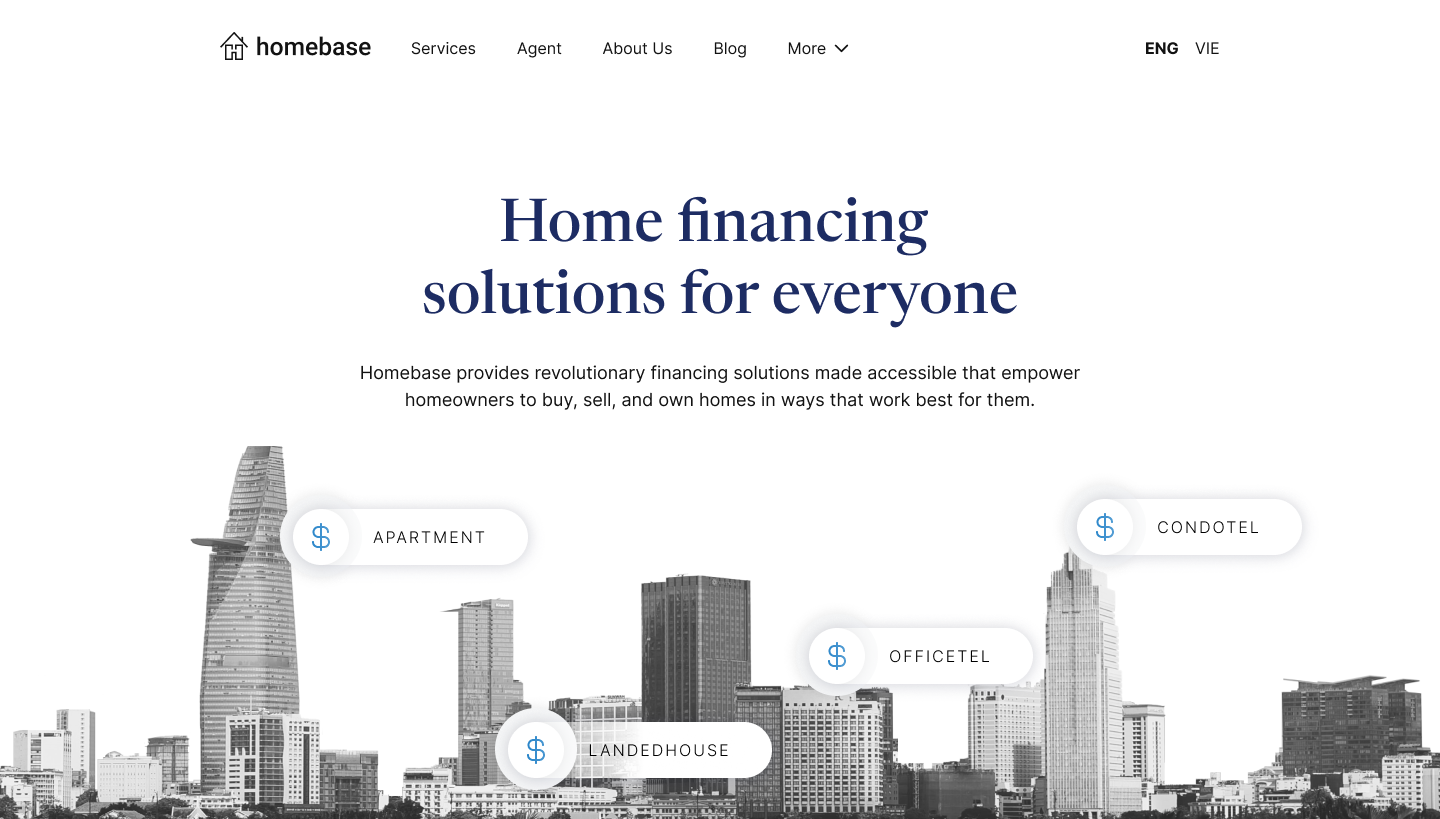
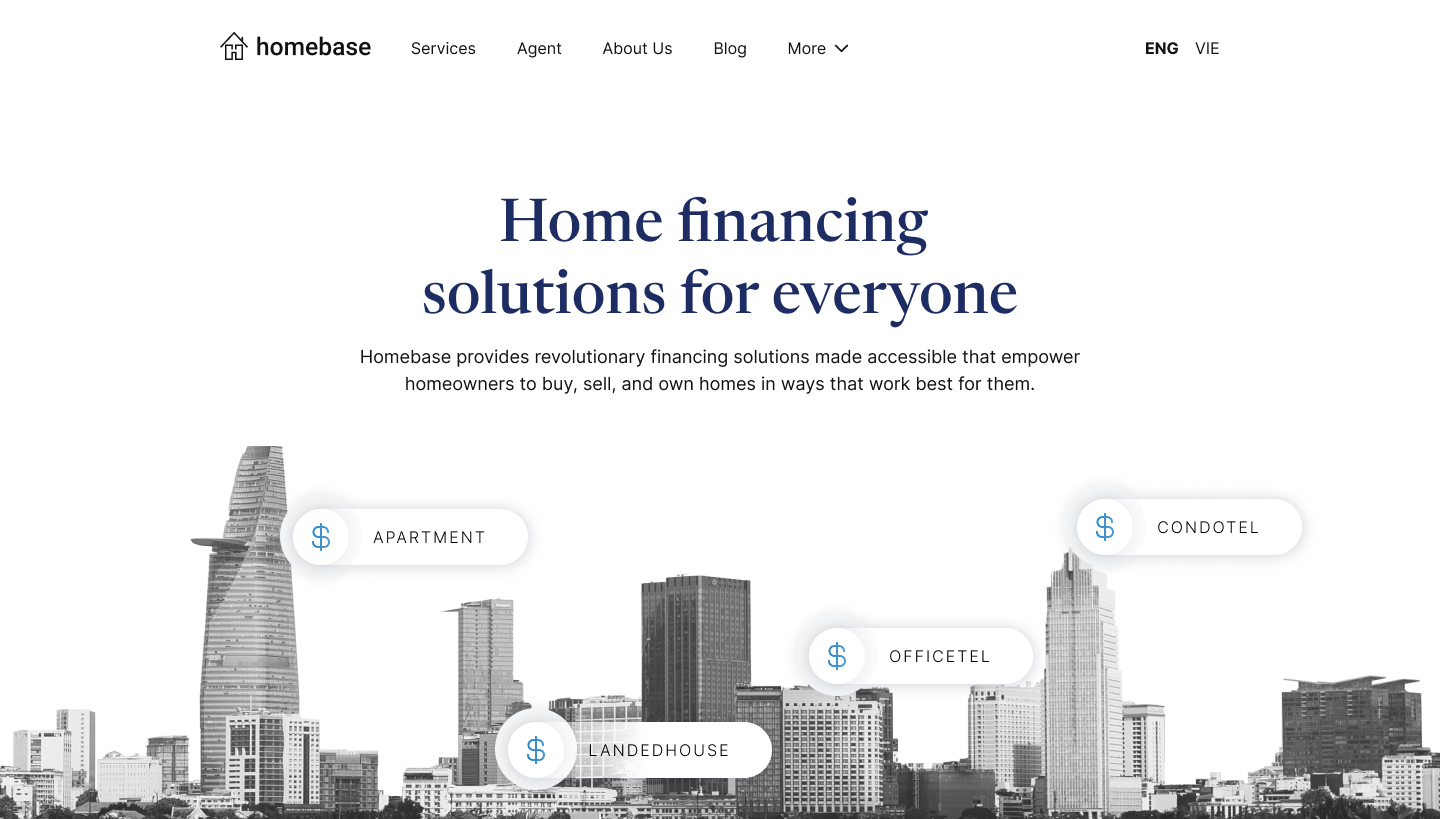
updated thumbnail

Changed region(s): [[0.25, 0.4274, 0.75, 0.5189]]

diff --git a/cases/vy-for-bachable.html b/cases/vy-for-bachable.html
@@ -378,7 +378,7 @@
                         <div class="rounded-xl md:rounded-2xl overflow-hidden">
                             <div class="relative h-72 max-h-[240px]  overflow-hidden flex items-center justify-center" style="background-color: #F8F7F2;">
                                 <img src="case-img/canda-mockup.png"
-                                    class="w-[70%] max-w-none flex-shrink-0"
+                                    class="absolute left-10 top-10 w-[100%] max-w-none rounded-t-xl"
                                     alt="C&A mockup">
                             </div>
                         </div>
@@ -398,7 +398,10 @@
                         style="box-shadow: 0 1px 1px 0 rgb(0 0 0 / 0.1),inset 4px 2px 8px rgb(0 0 0 / 0.02);"
                         class=" bg-white border border-gray-200 rounded-2xl md:rounded-3xl transition-all duration-300 ease-out hover:border-blue-500 hover:shadow-sm cursor-pointer block animate no2 p-3 ">
                         <div class="rounded-xl md:rounded-2xl overflow-hidden">
-                            <div class="relative h-72 max-h-[240px]  bg-cover bg-center bg-[url('case-img/bruce-mockup-bg.png')]">
+                            <div class="relative h-72 max-h-[240px] overflow-hidden" style="background-color: #D8FD53;">
+                                <img src="case-img/bruce-mockup.png"
+                                    class="absolute left-10 top-10 w-[100%] max-w-none rounded-t-xl"
+                                    alt="Bruce mockup">
                             </div>
                         </div>
                         <div class="px-2 py-6 space-y-2">
@@ -446,7 +449,7 @@
                         <div class="rounded-xl md:rounded-2xl overflow-hidden">
                             <div class="relative h-72 max-h-[240px] overflow-hidden flex items-center justify-center" style="background-color: #F2EEFF;">
                                 <img src="case-img/workflw-mockup.png"
-                                    class="w-[70%] max-w-none flex-shrink-0"
+                                    class="absolute left-10 top-10 w-[100%] max-w-none rounded-t-xl"
                                     alt="Workflw mockup">
                             </div>
                         </div>

diff --git a/cases/vy-for-canda.html b/cases/vy-for-canda.html
@@ -556,7 +556,7 @@
                         <div class="rounded-xl md:rounded-2xl overflow-hidden">
                             <div class="relative h-72 max-h-[240px] overflow-hidden flex items-center justify-center" style="background-color: #F8F7F2;">
                                 <img src="case-img/canda-mockup.png"
-                                    class="w-[70%] max-w-none flex-shrink-0"
+                                    class="absolute left-10 top-10 w-[100%] max-w-none rounded-t-xl"
                                     alt="C&A mockup">
                             </div>
                         </div>
@@ -576,7 +576,10 @@
                         style="box-shadow: 0 1px 1px 0 rgb(0 0 0 / 0.1),inset 4px 2px 8px rgb(0 0 0 / 0.02);"
                         class=" bg-white border border-gray-200 rounded-2xl md:rounded-3xl transition-all duration-300 ease-out hover:border-blue-500 hover:shadow-sm cursor-pointer block animate no2 p-3 ">
                         <div class="rounded-xl md:rounded-2xl overflow-hidden">
-                            <div class="relative h-72 max-h-[240px]  bg-cover bg-center bg-[url('case-img/bruce-mockup-bg.png')]">
+                            <div class="relative h-72 max-h-[240px] overflow-hidden" style="background-color: #D8FD53;">
+                                <img src="case-img/bruce-mockup.png"
+                                    class="absolute left-10 top-10 w-[100%] max-w-none rounded-t-xl"
+                                    alt="Bruce mockup">
                             </div>
                         </div>
                         <div class="px-2 py-6 space-y-2">
@@ -625,7 +628,7 @@
                         <div class="rounded-xl md:rounded-2xl overflow-hidden">
                             <div class="relative h-72 max-h-[240px] overflow-hidden flex items-center justify-center" style="background-color: #F2EEFF;">
                                 <img src="case-img/workflw-mockup.png"
-                                    class="w-[70%] max-w-none flex-shrink-0"
+                                    class="absolute left-10 top-10 w-[100%] max-w-none rounded-t-xl"
                                     alt="Workflw mockup">
                             </div>
                         </div>

diff --git a/cases/vy-for-homebase.html b/cases/vy-for-homebase.html
@@ -251,7 +251,7 @@
                         <div class="rounded-xl md:rounded-2xl overflow-hidden">
                             <div class="relative h-72 max-h-[240px] overflow-hidden flex items-center justify-center" style="background-color: #F8F7F2;">
                                 <img src="case-img/canda-mockup.png"
-                                    class="w-[70%] max-w-none flex-shrink-0"
+                                    class="absolute left-10 top-10 w-[100%] max-w-none rounded-t-xl"
                                     alt="C&A mockup">
                             </div>
                         </div>
@@ -271,7 +271,10 @@
                         style="box-shadow: 0 1px 1px 0 rgb(0 0 0 / 0.1),inset 4px 2px 8px rgb(0 0 0 / 0.02);"
                         class=" bg-white border border-gray-200 rounded-2xl md:rounded-3xl transition-all duration-300 ease-out hover:border-blue-500 hover:shadow-sm cursor-pointer block animate no2 p-3 ">
                         <div class="rounded-xl md:rounded-2xl overflow-hidden">
-                            <div class="relative h-72 max-h-[240px] bg-cover bg-center bg-[url('case-img/bruce-mockup-bg.png')]">
+                            <div class="relative h-72 max-h-[240px] overflow-hidden" style="background-color: #D8FD53;">
+                                <img src="case-img/bruce-mockup.png"
+                                    class="absolute left-10 top-10 w-[100%] max-w-none rounded-t-xl"
+                                    alt="Bruce mockup">
                             </div>
                         </div>
                         <div class="px-2 py-6 space-y-2">
@@ -320,7 +323,7 @@
                         <div class="rounded-xl md:rounded-2xl overflow-hidden">
                             <div class="relative h-72 max-h-[240px] overflow-hidden flex items-center justify-center" style="background-color: #F2EEFF;">
                                 <img src="case-img/workflw-mockup.png"
-                                    class="w-[70%] max-w-none flex-shrink-0"
+                                    class="absolute left-10 top-10 w-[100%] max-w-none rounded-t-xl"
                                     alt="Workflw mockup">
                             </div>
                         </div>

diff --git a/cases/vy-for-workflw.html b/cases/vy-for-workflw.html
@@ -185,7 +185,7 @@
                         <div class="rounded-xl md:rounded-2xl overflow-hidden">
                             <div class="relative h-72 max-h-[240px] overflow-hidden flex items-center justify-center" style="background-color: #F8F7F2;">
                                 <img src="case-img/canda-mockup.png"
-                                    class="w-[70%] max-w-none flex-shrink-0"
+                                    class="absolute left-10 top-10 w-[100%] max-w-none rounded-t-xl"
                                     alt="C&A mockup">
                             </div>
                         </div>
@@ -205,7 +205,10 @@
                         style="box-shadow: 0 1px 1px 0 rgb(0 0 0 / 0.1),inset 4px 2px 8px rgb(0 0 0 / 0.02);"
                         class=" bg-white border border-gray-200 rounded-2xl md:rounded-3xl transition-all duration-300 ease-out hover:border-blue-500 hover:shadow-sm cursor-pointer block animate no2 p-3 ">
                         <div class="rounded-xl md:rounded-2xl overflow-hidden">
-                            <div class="relative h-72 max-h-[240px] bg-cover bg-center bg-[url('case-img/bruce-mockup-bg.png')]">
+                            <div class="relative h-72 max-h-[240px] overflow-hidden" style="background-color: #D8FD53;">
+                                <img src="case-img/bruce-mockup.png"
+                                    class="absolute left-10 top-10 w-[100%] max-w-none rounded-t-xl"
+                                    alt="Bruce mockup">
                             </div>
                         </div>
                         <div class="px-2 py-6 space-y-2">
@@ -254,7 +257,7 @@
                         <div class="rounded-xl md:rounded-2xl overflow-hidden">
                             <div class="relative h-72 max-h-[240px] overflow-hidden flex items-center justify-center" style="background-color: #F2EEFF;">
                                 <img src="case-img/workflw-mockup.png"
-                                    class="w-[70%] max-w-none flex-shrink-0"
+                                    class="absolute left-10 top-10 w-[100%] max-w-none rounded-t-xl"
                                     alt="Workflw mockup">
                             </div>
                         </div>

diff --git a/index.html b/index.html
@@ -107,7 +107,7 @@
                         <div class="rounded-2xl overflow-hidden">
                             <div class="relative h-72 max-h-[240px] overflow-hidden flex items-center justify-center" style="background-color: #F8F7F2;">
                                 <img src="cases/case-img/canda-mockup.png"
-                                    class="w-[70%] max-w-none flex-shrink-0"
+                                    class="absolute left-10 top-10 w-[100%] max-w-none rounded-t-xl"
                                     alt="C&A mockup">
                             </div>
                         </div>
@@ -127,7 +127,10 @@
                         style="box-shadow: 0 1px 1px 0 rgb(0 0 0 / 0.1),inset 4px 2px 8px rgb(0 0 0 / 0.02);"
                     class="hover:border-blue-500 bg-white border border-slate-200 rounded-3xl transition-all duration-300 ease-out cursor-pointer block animate no2 p-3 ">
                         <div class="rounded-2xl overflow-hidden">
-                            <div class="relative h-72 max-h-[240px] bg-cover bg-center bg-[url('cases/case-img/bruce-mockup-bg.png')]">
+                            <div class="relative h-72 max-h-[240px] overflow-hidden" style="background-color: #D8FD53;">
+                                <img src="cases/case-img/bruce-mockup.png"
+                                    class="absolute left-10 top-10 w-[100%] max-w-none rounded-t-xl"
+                                    alt="Bachable mockup">
                             </div>
                         </div>
                         <div class="px-2 py-6 space-y-2">
@@ -176,7 +179,7 @@
                         <div class="rounded-2xl overflow-hidden">
                             <div class="relative h-72 max-h-[240px] overflow-hidden flex items-center justify-center" style="background-color: #F2EEFF;">
                                 <img src="cases/case-img/workflw-mockup.png"
-                                    class="w-[70%] max-w-none flex-shrink-0"
+                                    class="absolute left-10 top-10 w-[100%] max-w-none rounded-t-xl"
                                     alt="Workflw mockup">
                             </div>
                         </div>

diff --git a/cases/vy-for-bruce.html b/cases/vy-for-bruce.html
@@ -263,7 +263,7 @@
                         <div class="rounded-xl md:rounded-2xl overflow-hidden">
                             <div class="relative h-72 max-h-[240px]  overflow-hidden flex items-center justify-center" style="background-color: #F8F7F2;">
                                 <img src="case-img/canda-mockup.png"
-                                    class="w-[70%] max-w-none flex-shrink-0"
+                                    class="absolute left-10 top-10 w-[100%] max-w-none rounded-t-xl"
                                     alt="C&A mockup">
                             </div>
                         </div>
@@ -332,7 +332,7 @@
                         <div class="rounded-xl md:rounded-2xl overflow-hidden">
                             <div class="relative h-72 max-h-[240px] overflow-hidden flex items-center justify-center" style="background-color: #F2EEFF;">
                                 <img src="case-img/workflw-mockup.png"
-                                    class="w-[70%] max-w-none flex-shrink-0"
+                                    class="absolute left-10 top-10 w-[100%] max-w-none rounded-t-xl"
                                     alt="Workflw mockup">
                             </div>
                         </div>